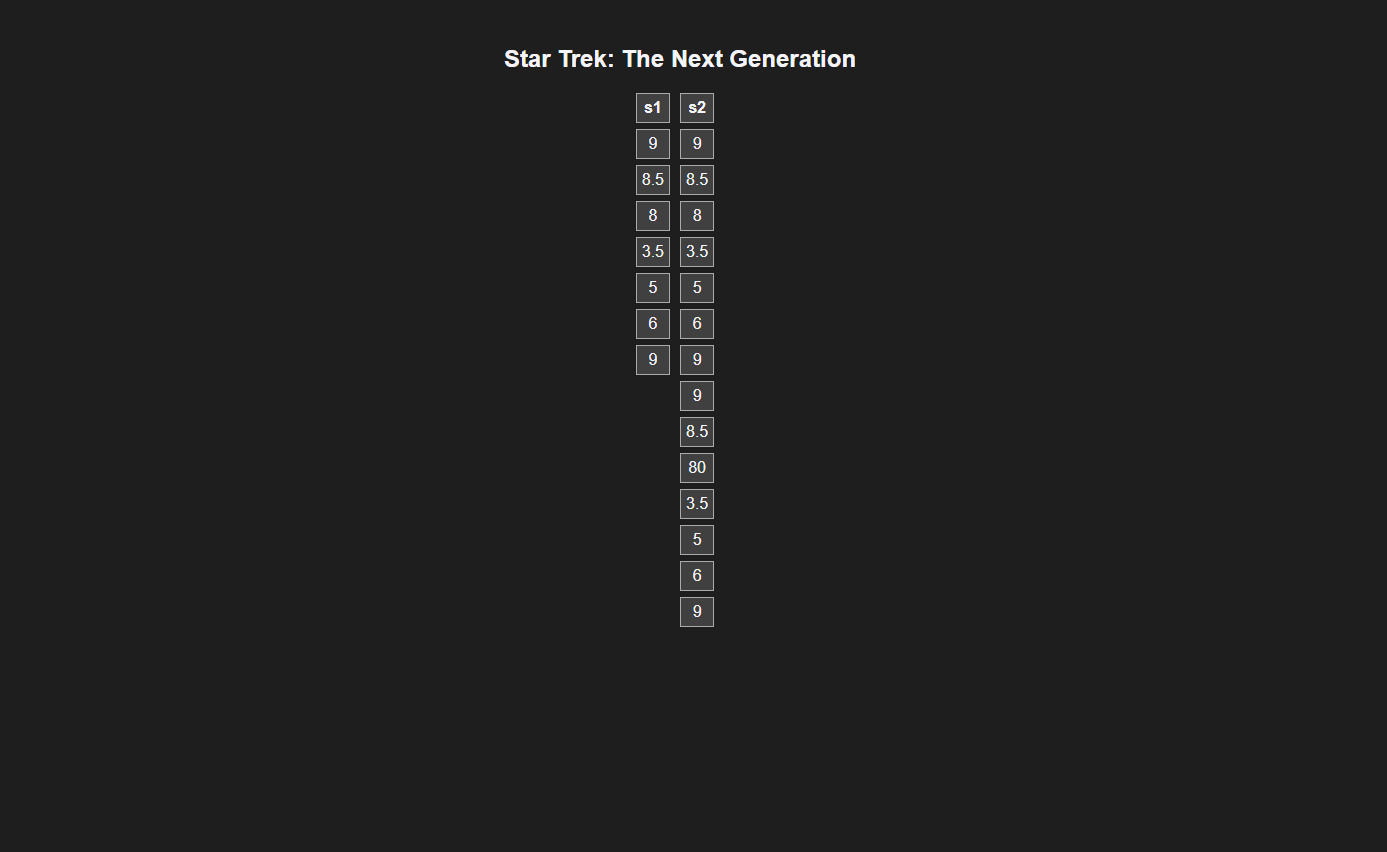
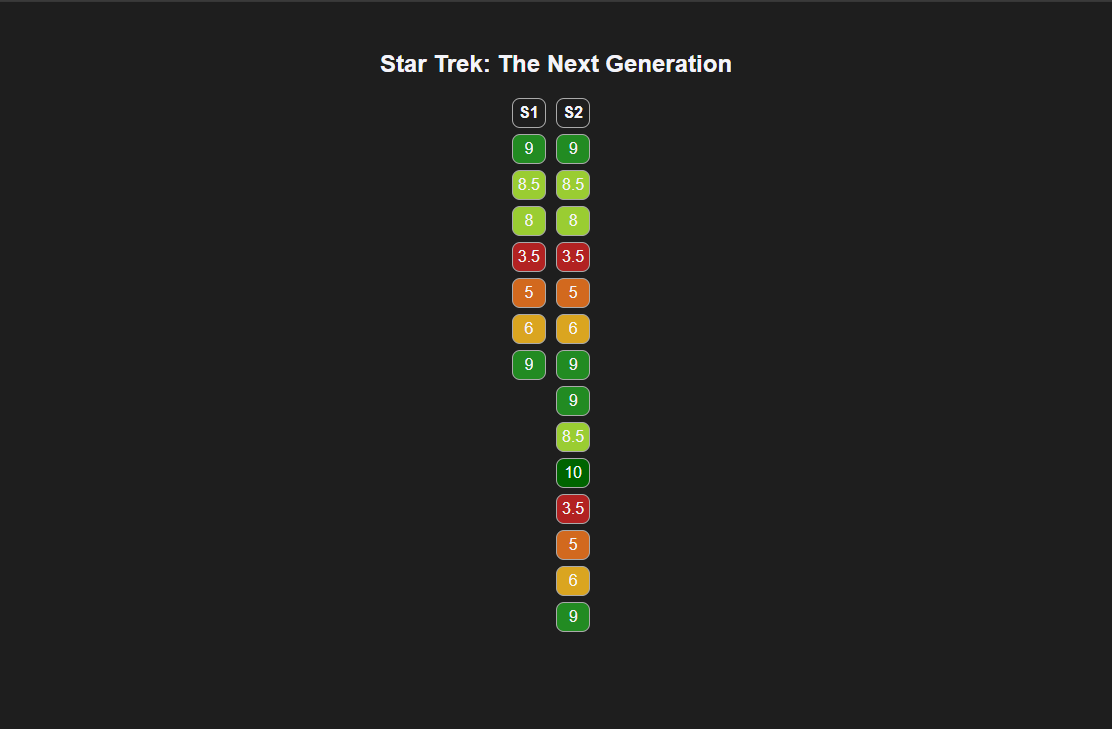
Colour the rating scale

Changed region(s): [[0.3363, 0.0604, 0.6727, 0.8752]]

diff --git a/src/template.html b/src/template.html
@@ -37,31 +37,75 @@
             border: 1px solid #000;
             text-align: center;
             margin-bottom: 6px;
+            border-radius: 8px;
         }
 
         .header {
             font-weight: bold;
         }
 
-         @media (prefers-color-scheme: dark) {
+        @media (prefers-color-scheme: dark) {
             body {
                 background-color: #1e1e1e;
                 color: #f4f4f9;
             }
 
             .cell {
-               border: 1px solid #aaa;
-               background-color: #404040;
+                border: 1px solid #aaa;
             }
+        }
 
+        .rating-0 {
+            background-color: #660000;
+        }
+
+        .rating-1 {
+            background-color: #A52A2A;
+        }
+
+        .rating-2 {
+            background-color: #8B0000;
+        }
+
+        .rating-3 {
+            background-color: #B22222;
+        }
+
+        .rating-4 {
+            background-color: #CD5C5C;
+        }
+
+        .rating-5 {
+            background-color: #D2691E;
+        }
+
+        .rating-6 {
+            background-color: #DAA520;
+        }
+
+        .rating-7 {
+            background-color: #B8860B;
+        }
+
+        .rating-8 {
+            background-color: #9ACD32;
+        }
+
+        .rating-9 {
+            background-color: #228B22;
+        }
+
+        .rating-10 {
+            background-color: #006400;
+        }
     </style>
-    <title>My Ratings</title>
+    <title>{showname}</title>
 </head>
 <body>
     <div class="heading">{showname}</div>
 
     <div class="container">
-{ratings}
+        {ratings}
     </div>
 </body>
 </html>

diff --git a/src/Program.cs b/src/Program.cs
@@ -45,7 +45,9 @@ foreach (var line in ratingLines)
 
     var rating = line.Split("#").First();
 
-    sb.Append($"<div class=\"cell\">{rating}</div>");
+    var ratingTruncated = Math.Truncate(Convert.ToDouble(rating));
+
+    sb.Append($"<div class=\"cell rating-{ratingTruncated}\">{rating}</div>");
 }
 
 var templateText = File.ReadAllText(args[1]);
